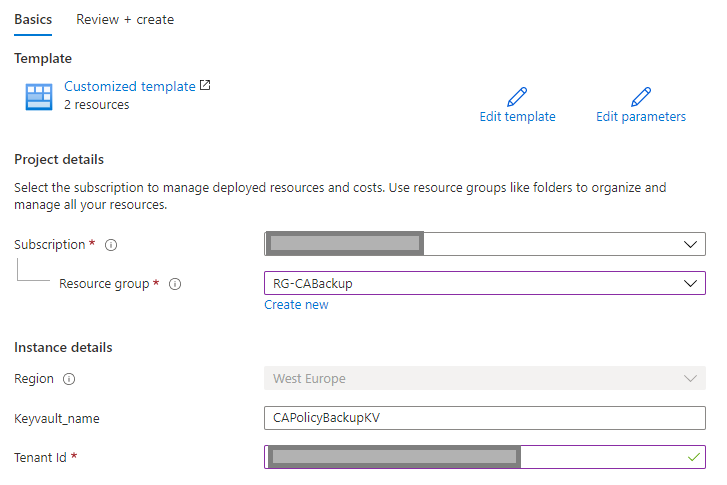
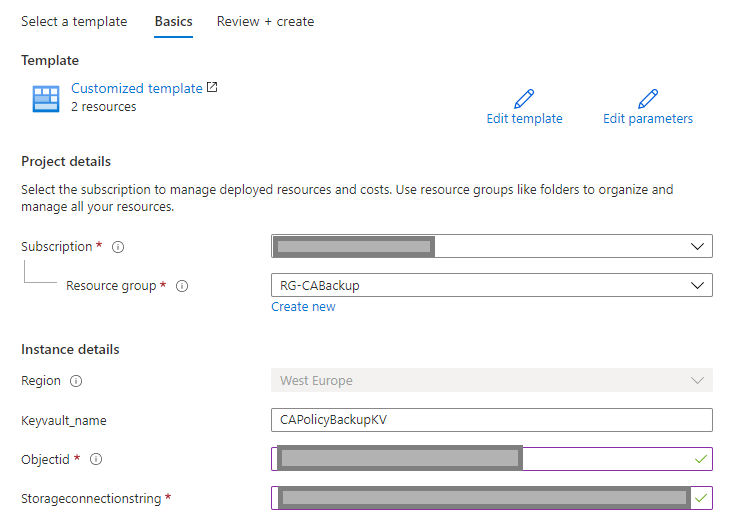
Add keyvault deployment

diff --git a/README.md b/README.md
@@ -2,38 +2,68 @@
 You can find here the installation process for the whole solution.
 The monthley fee for that solution (Microsoft consumption) is aprox 50€
 
-#### Okay let's start, to install the solution deploy the Azure storage account first:
+<hr/>
 
-[![Deploy Azure storage account](https://aka.ms/deploytoazurebutton)](https://portal.azure.com/#create/Microsoft.Template/uri/https%3A%2F%2Fraw.githubusercontent.com%2FLagler-Gruener%2FSol-CABackupDeploy%2Fmain%2FStorageAccount%2Fdeploystorageaccount.json)
+#### 1. Okay let's start, to install the solution deploy the Azure storage account first:
 
 That deployment includes the Azure storage account and the required Azure storage tables
 * cabackup
 * catranslation
 * cabackupconfiguration
 
-### Deployment input:
+[![Deploy Azure storage account](https://aka.ms/deploytoazurebutton)](https://portal.azure.com/#create/Microsoft.Template/uri/https%3A%2F%2Fraw.githubusercontent.com%2FLagler-Gruener%2FSol-CABackupDeploy%2Fmain%2FStorageAccount%2Fdeploystorageaccount.json)
+
+> #### Deployment input:
+> <b style='color:red'>!IMPORTANT!</b> please select an existing resourcegroup or define a new one!
 
 ![Deplyoment](./StorageAccount/images/storagedeployment.png)
 
-### Result:
+> #### Result:
 
 ![Finished](./StorageAccount/images/finisheddeployment.png)
 
 <hr/>
 
-#### Next step is the user assigned managed identity deployment
+#### 2. Next step is the user assigned managed identity deployment
 
-That deployment step includes the Azure user assigned managed identits, which is important for the whole solution.
+That deployment step includes the Azure user assigned managed identits deployment, which is important for the whole solution.
 Keep in mind, we have to copy the user assigned managed identity 'client id' when the deployment is finished!
 
 [![Deploy Azure storage account](https://aka.ms/deploytoazurebutton)](https://portal.azure.com/#create/Microsoft.Template/uri/https%3A%2F%2Fraw.githubusercontent.com%2FLagler-Gruener%2FSol-CABackupDeploy%2Fmain%2FAzureMI%2Fdeploymanagedidentity.json)
+
+> #### Deployment input:
+> <b style='color:red'>!IMPORTANT!</b> please select the resource group created bevor
+
+![Deplyoment](./AzureMI/images/deploymanagedidentity.png)
+
+> #### Result:
+
+![Deplyoment](./AzureMI/images/finisheddeployment.png)
+
+> #### <b style='color:orange'>Now an important part!</b>
+> Please copy the output from the deployment, we need that information in the next steps!
+
+![Deplyoment](./AzureMI/images/getmiidstep1.png)
+
+Than:
+
+![Deplyoment](./AzureMI/images/getmiidstep2.png)
+
 
 
 
 <hr/>
 
-#### Next step is the keyvault deployment
+#### 3. Now we can deploy the keyvault resource
 
 [![Deploy Azure storage account](https://aka.ms/deploytoazurebutton)](https://portal.azure.com/#create/Microsoft.Template/uri/https%3A%2F%2Fraw.githubusercontent.com%2FLagler-Gruener%2FSol-CABackupDeploy%2Fmain%2FKeyVault%2Fdeploykeyvault.json)
 
-That 
+That deployment step includes the Azure keyvault deployment, which is important for the Web Application.
+
+> #### Deployment input:
+> <b style='color:red'>!IMPORTANT!</b> <br/> 
+> * Please select the resource group created bevor
+> * Add the object id from the user assigned managed identity
+> * Add the Azure storage account connection string
+
+![Deplyoment](./AzureMI/images/getmiidstep2.png)
